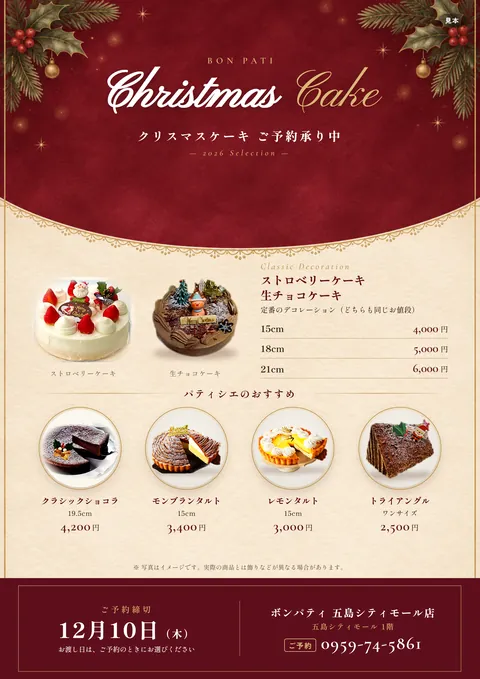
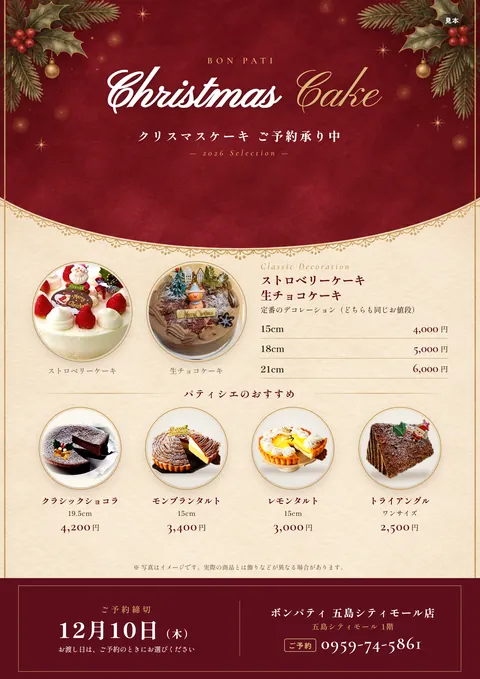
ボンパティ見本：ケーキの写真を切り抜かず丸い枠に（荒さを解消）／手帳：元の写真のお願いを追加

Changed region(s): [[0.0625, 0.3711, 0.5312, 0.5567]]

diff --git a/studio/goto-citymall-1123-jptrq/index.html b/studio/goto-citymall-1123-jptrq/index.html
@@ -659,7 +659,7 @@ main{max-width:900px;margin:0 auto;padding:16px 16px 130px}
     <li><span class="aft-st wait">HPの見本に反映・受付は契約後</span><b>チラシは8枠・期日が終わったら自動で消える・1つに表と裏の2枚</b><span class="aft-b">見本サイトの表示を直した（見本にボンパティの表と裏）。本番のホームページはまだ公開前。お店から受け付ける仕組み（御社の Apps Script に入れる物）も同じ決まりに作り替え、試験127件合格。御社への設定は契約の後</span></li>
     <li><span class="aft-st ok">済・11/24 公開</span><b>Instagram には関与しない → チラシ・ポスターの箱</b><span class="aft-b">旧「投稿の箱」を「チラシの箱」に作り替えた（月4回・10の質問・税込の総額・片面/両面・案A案B・✓）。試験143件合格。11/24 朝に代表の承認を受け、受け側（Apps Script）と画面を公開した（本番で合言葉・枠 0/4・空の申し込みを断るのを確認）</span></li>
     <li><span class="aft-st wait">たたき台・要判断</span><b>契約書のたたき台</b><span class="aft-b">Instagram の所をチラシ・ポスター（月4件・1件の定義・写真の加工）に直し、QR を11か所までと書いた。料金は今までのまま。源泉徴収は制作業務（総額200,000円）だけにかかり、運用保守にはかからない（11/24 代表決定・第16稿）</span></li>
-    <li><span class="aft-st wait">見本を直した</span><b>ボンパティ様の見本にストロベリーケーキ</b><span class="aft-b">代表の指摘。去年のチラシの写真を切り出し、色と明るさを整えて（形は変えない）、生チョコケーキと2つ並べた。HP・箱の見本・手引きの画像も差し替え</span></li>
+    <li><span class="aft-st wait">見本を直した</span><b>ボンパティ様の見本にストロベリーケーキ</b><span class="aft-b">代表の指摘。去年のチラシの写真を切り出し、色と明るさを整えて（形は変えない）、切り抜かずに写真を正方形に切り、色と明るさだけ整えて、生チョコケーキと同じ金の縁の丸い枠に2つ並べた（代表「切り取りが荒い」で作り直し）。元の写真が小さく本番の印刷には足りないため、5通目で元の写真をお願いしている。HP・箱の見本・手引きの画像も差し替え</span></li>
     <li><span class="aft-st wait">用意した</span><b>手引き2つ</b><span class="aft-b">「チラシ・ポスターの箱の使い方」と「お店のチラシをホームページに載せる」。スマホで開けるページにして、LINE の2通目・3通目にアドレスを入れた</span></li>
     <li><span class="aft-st wait">用意した</span><b>LINE で聞く・伝えること</b><span class="aft-b">下の5通。押すとコピーできる。送るのは代表</span></li>
   </ul></div>
@@ -751,6 +751,7 @@ https://hinagado.github.io/studio/goto-citymall-demo/
 
 ①ボンパティ様のチラシの値段
 いただいた資料の今年の欄のとおりに載せています。この値段が税込かどうか、教えていただけますか。
+あわせて、ストロベリーケーキの元の写真（できるだけ大きいもの）があれば、お送りいただけますか。見本では去年のチラシの写真を使ったため小さく、印刷に使うには細かさが足りません。
 
 ②館内の現在地QRの場所
 23日に選んでいただいた次の7か所でお作りします（番号は、候補の一覧の番号のままです）。

diff --git a/studio/goto-citymall-1123-jptrq/sw.js b/studio/goto-citymall-1123-jptrq/sw.js
@@ -1,7 +1,7 @@
 /* このファイルは _offline/make_sw.mjs から生成されます。直接編集しないでください。 */
 "use strict";
 
-const CACHE_NAME = "gcm-goto-citymall-1123-jptrq-7fa521cbb215";
+const CACHE_NAME = "gcm-goto-citymall-1123-jptrq-06144b794178";
 const CACHE_PREFIX = "gcm-goto-citymall-1123-jptrq-";
 const FONT_CACHE = "gcm-fonts-v1";
 const PRE = [

diff --git a/studio/goto-citymall-demo/sw.js b/studio/goto-citymall-demo/sw.js
@@ -1,7 +1,7 @@
 /* このファイルは _offline/make_sw.mjs から生成されます。直接編集しないでください。 */
 "use strict";
 
-const CACHE_NAME = "gcm-goto-citymall-demo-63aa0fa15a83";
+const CACHE_NAME = "gcm-goto-citymall-demo-f2a8c19e32c7";
 const CACHE_PREFIX = "gcm-goto-citymall-demo-";
 const FONT_CACHE = "gcm-fonts-v1";
 const PRE = [

diff --git a/studio/goto-citymall-post/sw.js b/studio/goto-citymall-post/sw.js
@@ -1,7 +1,7 @@
 /* このファイルは _offline/make_sw.mjs から生成されます。直接編集しないでください。 */
 "use strict";
 
-const CACHE_NAME = "gcm-goto-citymall-post-6839e555bd14";
+const CACHE_NAME = "gcm-goto-citymall-post-f2e6c5474733";
 const CACHE_PREFIX = "gcm-goto-citymall-post-";
 const FONT_CACHE = "gcm-fonts-v1";
 const PRE = [
